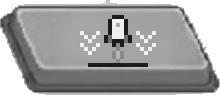
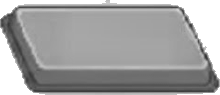
Botón aterrizar: dice IR en vez del ícono

Changed region(s): [[0.3545, 0.1474, 0.7091, 0.7158]]

diff --git a/src/scenes/monitor/landHint.ts b/src/scenes/monitor/landHint.ts
@@ -1,19 +1,63 @@
-import type Phaser from 'phaser';
+import Phaser from 'phaser';
 import { INTRO_BALANCE } from '../../config/balance';
-import { PALETTE } from '../../ui/palette';
+import { t } from '../../i18n';
+import { FONT_SIZE } from '../../ui/layout';
+import { cssColor, PALETTE } from '../../ui/palette';
+import { SPRITE_SCALE } from '../../ui/sprites';
+import { addText } from '../../ui/text';
 
 /**
- * Spec 19 — Makes the big green LAND button call for a tap: while the ship can land, a soft
- * yellow light around it breathes. When landing is locked the light is off (pressing it still
- * explains why on the screen). The rocket landing on its icon says what it does.
+ * Spec 19 — The big green LAND button says "IR" (GO) on its face, and while the ship can land a
+ * soft yellow light around it breathes. When landing is locked the light is off and the word is
+ * gray (pressing it still explains why on the screen). The word sinks with the button frames.
  */
 export interface LandHint {
   setReady: (ready: boolean) => void;
 }
 
 const GLOW = { color: PALETTE.sun, strength: 2, quality: 0.1, distance: 8 } as const;
+/** Center of the button face in the art (1280×720 kit pixels, before SPRITE_SCALE). */
+const FACE_CENTER = { x: 118, y: 39 } as const;
+/** How far the face sinks in each press frame, in the same art pixels. */
+const FACE_SINK: Record<string, number> = { medio: 5, apretado: 9 };
+const OUTLINE_PX = 4;
 
 export function addLandHint(scene: Phaser.Scene, button: Phaser.GameObjects.Image): LandHint {
+  const restY = button.y + FACE_CENTER.y * SPRITE_SCALE;
+  const word = addText(
+    scene,
+    button.x + FACE_CENTER.x * SPRITE_SCALE,
+    restY,
+    t('monitor.landButton'),
+    {
+      size: FONT_SIZE.large,
+    },
+  );
+  word.setStroke(cssColor(PALETTE.night), OUTLINE_PX).setDepth(button.depth + 1);
+  const followPress = () => word.setY(restY + sinkOf(button.texture.key) * SPRITE_SCALE);
+  scene.events.on(Phaser.Scenes.Events.UPDATE, followPress);
+  scene.events.once(Phaser.Scenes.Events.SHUTDOWN, () =>
+    scene.events.off(Phaser.Scenes.Events.UPDATE, followPress),
+  );
+  const glow = addBreathingGlow(scene, button);
+  return {
+    setReady: (ready) => {
+      word.setColor(cssColor(ready ? PALETTE.white : PALETTE.metalLight));
+      if (glow) glow.active = ready;
+    },
+  };
+}
+
+function sinkOf(textureKey: string): number {
+  const frame = Object.keys(FACE_SINK).find((suffix) => textureKey.endsWith(`-${suffix}`));
+  return frame ? (FACE_SINK[frame] ?? 0) : 0;
+}
+
+/** A soft yellow light around the button that fades in and out (WebGL only). */
+function addBreathingGlow(
+  scene: Phaser.Scene,
+  button: Phaser.GameObjects.Image,
+): Phaser.FX.Glow | undefined {
   const glow = button.preFX?.addGlow(
     GLOW.color,
     GLOW.strength,
@@ -22,19 +66,14 @@ export function addLandHint(scene: Phaser.Scene, button: Phaser.GameObjects.Imag
     GLOW.quality,
     GLOW.distance,
   );
-  if (glow) {
-    scene.tweens.add({
-      targets: glow,
-      outerStrength: 0,
-      yoyo: true,
-      repeat: -1,
-      duration: INTRO_BALANCE.landGlowPulseMs,
-      ease: 'Sine.InOut',
-    });
-  }
-  return {
-    setReady: (ready) => {
-      if (glow) glow.active = ready;
-    },
-  };
+  if (!glow) return undefined;
+  scene.tweens.add({
+    targets: glow,
+    outerStrength: 0,
+    yoyo: true,
+    repeat: -1,
+    duration: INTRO_BALANCE.landGlowPulseMs,
+    ease: 'Sine.InOut',
+  });
+  return glow;
 }

diff --git a/docs/DECISIONS.md b/docs/DECISIONS.md
@@ -22,9 +22,9 @@ Formato:
 
 ## 2026-11-15 — En la cabina, los destinos se eligen en el tablero del centro (spec 19)
 - Quién: C (Emilia), con Claude
-- Qué se decidió: el monitor del costado derecho de la cabina se reemplazó por un rincón con trajes colgados, casco, botas y mochila (editado con Gemini solo en esa zona; el resto del dibujo queda igual). Ahora se toca la pantalla del centro del tablero, debajo de la ventana, para abrir la consola de destinos; esa pantalla muestra el mini mapa de Marte y, durante el aterrizaje, la altura. La consola de destinos de cerca se adapta a ese lugar: la franja de arriba deja de ser un cuadro y pasa a ser el borde de abajo del parabrisas (con la misma foto real de Marte de la ventana), y el beige pasa a los grises claros del tablero. El botón ATERRIZAR tiene un ícono nuevo (un cohete bajando con el fuego hacia el suelo y flechitas hacia abajo, en vez del módulo de aterrizaje que no se entendía) y, cuando se puede aterrizar, una luz amarilla suave que late. En la cabina flotan los objetos de `bocetos/cabina/flotantes/` (birome, bolsa de agua, llave, snack; el cohetito se sacó porque confundía) en gravedad cero: deriva lenta en línea recta, giro lento y rebote suave en los bordes.
+- Qué se decidió: el monitor del costado derecho de la cabina se reemplazó por un rincón con trajes colgados, casco, botas y mochila (editado con Gemini solo en esa zona; el resto del dibujo queda igual). Ahora se toca la pantalla del centro del tablero, debajo de la ventana, para abrir la consola de destinos; esa pantalla muestra el mini mapa de Marte y, durante el aterrizaje, la altura. La consola de destinos de cerca se adapta a ese lugar: la franja de arriba deja de ser un cuadro y pasa a ser el borde de abajo del parabrisas (con la misma foto real de Marte de la ventana), y el beige pasa a los grises claros del tablero. El botón de aterrizar dice **IR** (texto traducible, `monitor.landButton`; en inglés GO) en vez del ícono del módulo de aterrizaje, que no se entendía, y cuando se puede aterrizar tiene una luz amarilla suave que late. En la cabina flotan los objetos de `bocetos/cabina/flotantes/` (birome, bolsa de agua, llave, snack; el cohetito se sacó porque confundía) en gravedad cero: deriva lenta en línea recta, giro lento y rebote suave en los bordes.
 - Por qué: al probarlo, lo intuitivo era tocar la pantalla del centro para elegir misión.
-- A quién afecta: solo el spec 19 (`cabina-fondo.png`, `layout.ts`: `CABIN_DASHBOARD_*` reemplaza a `CABIN_MONITOR_*`, que solo usaba el spec 19; textos `cabin.manualDone` y `cabin.again`; `consola-fondo.png`; íconos de `botones/aterrizar*.png`; valores nuevos en `INTRO_BALANCE`).
+- A quién afecta: solo el spec 19 (`cabina-fondo.png`, `layout.ts`: `CABIN_DASHBOARD_*` reemplaza a `CABIN_MONITOR_*`, que solo usaba el spec 19; textos `cabin.manualDone` y `cabin.again`; `consola-fondo.png`; `botones/aterrizar*.png` sin ícono; clave nueva `monitor.landButton`; valores nuevos en `INTRO_BALANCE`).
 - ¿Avisado al equipo?: no todavía (va en el PR #33).
 
 ## 2026-11-15 — La intro en la cabina pasa a ser el spec 19
